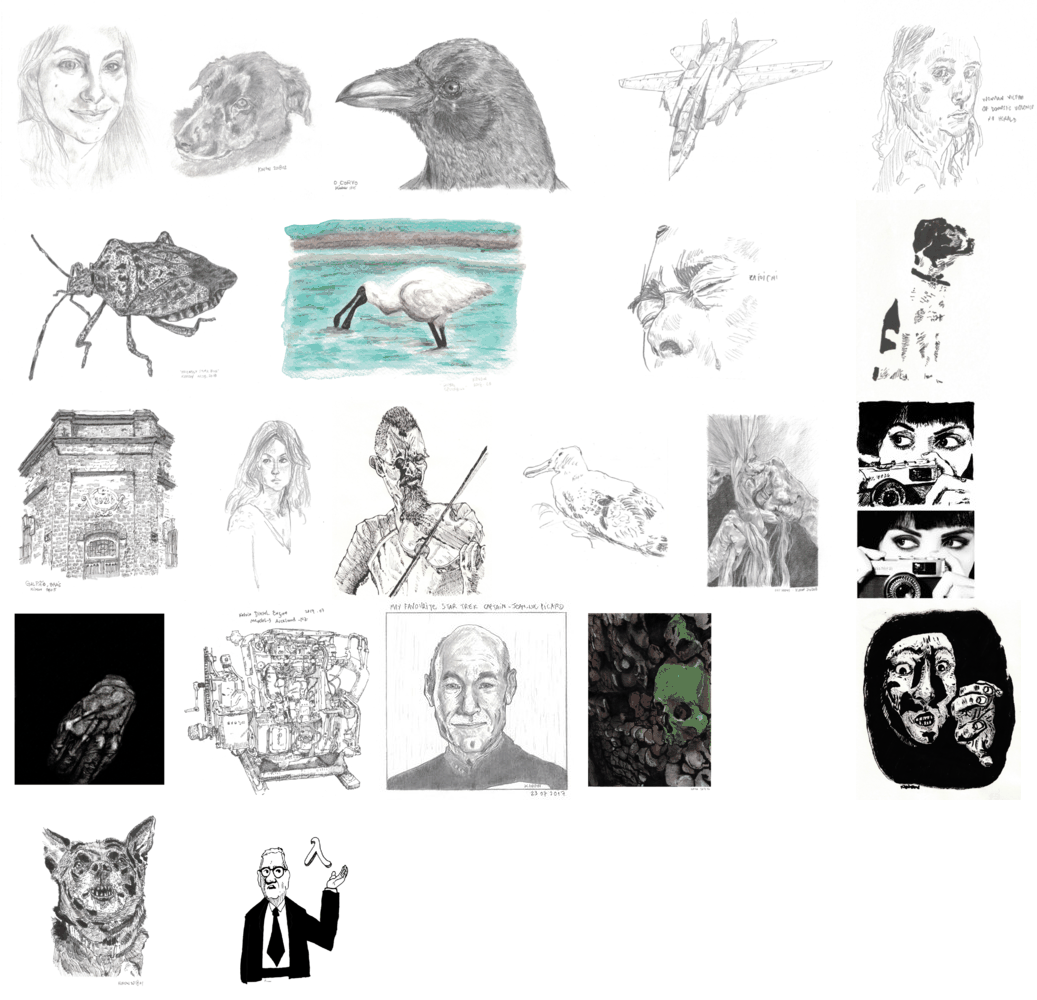
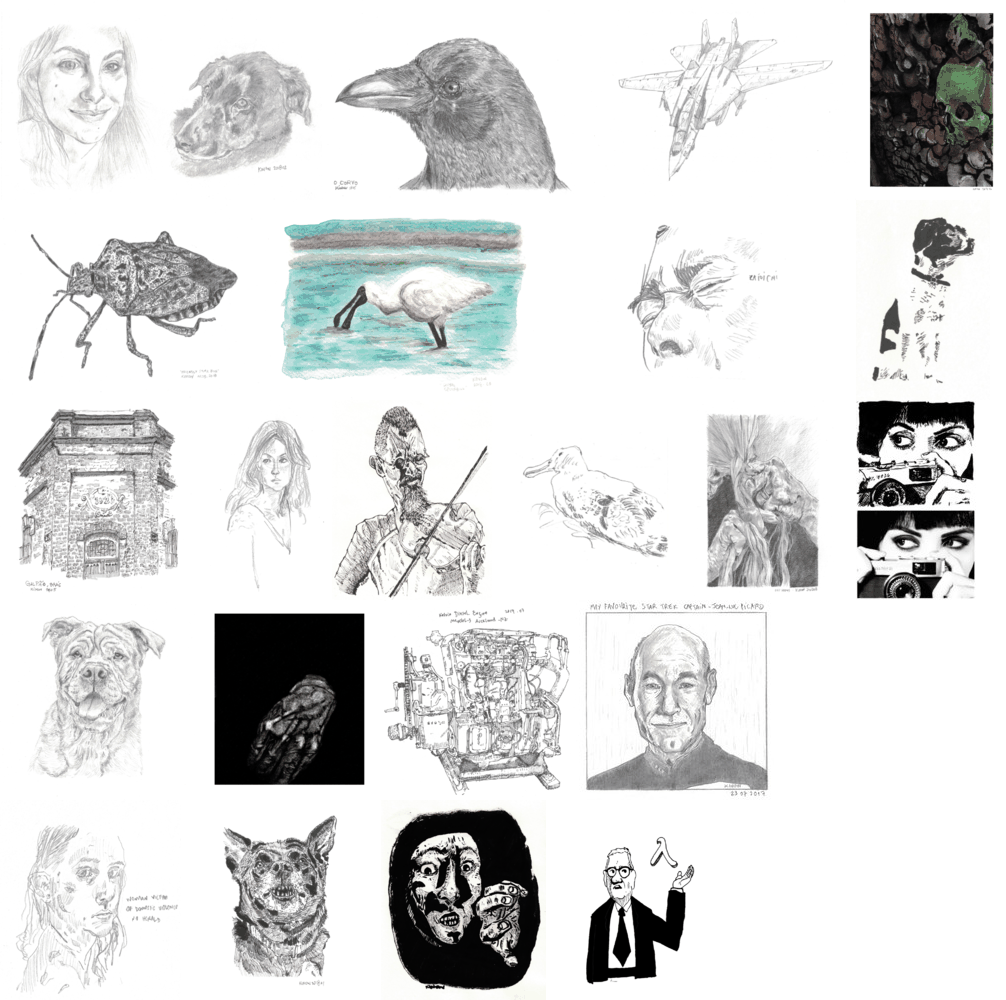
Add Rocky drawing

diff --git a/_sass/thumbs.scss b/_sass/thumbs.scss
@@ -1,4 +1,4 @@
-/* glue: 0.13 hash: f1fb888f26 */
+/* glue: 0.13 hash: 87e9ce1259 */
         .sprite-thumbs-thumb-simone,
 .sprite-thumbs-thumb-o-corvo,
 .sprite-thumbs-thumb-stink-bug-smaller,
@@ -9,6 +9,7 @@
 .sprite-thumbs-thumb-woman-looking-01,
 .sprite-thumbs-thumb-terra_celta_s_vocal_elcio_by_kinow-dau42sh,
 .sprite-thumbs-thumb-southern-royal-albatross,
+.sprite-thumbs-thumb-rocky,
 .sprite-thumbs-thumb-old-hands,
 .sprite-thumbs-thumb-obachan,
 .sprite-thumbs-thumb-kelvin-diesel-engine,
@@ -84,6 +85,12 @@
             height: 200px;
         }
         
+        .sprite-thumbs-thumb-rocky {
+            background-position: 0 -600px;
+            width: 200px;
+            height: 200px;
+        }
+        
         .sprite-thumbs-thumb-old-hands {
             background-position: -692px -400px;
             width: 142px;
@@ -91,37 +98,37 @@
         }
         
         .sprite-thumbs-thumb-obachan {
-            background-position: 0 -600px;
+            background-position: -200px -600px;
             width: 179px;
             height: 200px;
         }
         
         .sprite-thumbs-thumb-kelvin-diesel-engine {
-            background-position: -179px -600px;
+            background-position: -379px -600px;
             width: 200px;
             height: 200px;
         }
         
         .sprite-thumbs-thumb-jean-luc-picard-original-size {
-            background-position: -379px -600px;
+            background-position: -579px -600px;
             width: 195px;
             height: 200px;
         }
         
         .sprite-thumbs-thumb-green-skull-full {
-            background-position: -574px -600px;
+            background-position: -856px 0;
             width: 150px;
             height: 200px;
         }
         
         .sprite-thumbs-thumb-domestic-violence {
-            background-position: -856px 0;
+            background-position: 0 -800px;
             width: 181px;
             height: 200px;
         }
         
         .sprite-thumbs-thumb-doggo-white {
-            background-position: 0 -800px;
+            background-position: -181px -800px;
             width: 200px;
             height: 200px;
         }
@@ -139,13 +146,13 @@
         }
         
         .sprite-thumbs-thumb-cave {
-            background-position: -856px -600px;
+            background-position: -381px -800px;
             width: 165px;
             height: 200px;
         }
         
         .sprite-thumbs-thumb-alonzo_and_lambda_by_kinow-d5tqvau {
-            background-position: -200px -800px;
+            background-position: -546px -800px;
             width: 159px;
             height: 200px;
         }
@@ -161,6 +168,7 @@
     .sprite-thumbs-thumb-woman-looking-01,
     .sprite-thumbs-thumb-terra_celta_s_vocal_elcio_by_kinow-dau42sh,
     .sprite-thumbs-thumb-southern-royal-albatross,
+    .sprite-thumbs-thumb-rocky,
     .sprite-thumbs-thumb-old-hands,
     .sprite-thumbs-thumb-obachan,
     .sprite-thumbs-thumb-kelvin-diesel-engine,
@@ -173,9 +181,9 @@
     .sprite-thumbs-thumb-cave,
     .sprite-thumbs-thumb-alonzo_and_lambda_by_kinow-d5tqvau {
                 background-image: url('/assets/pages/art/thumbs.png');
-                -webkit-background-size: 1037px 1000px;
-                -moz-background-size: 1037px 1000px;
-                background-size: 1037px 1000px;
+                -webkit-background-size: 1006px 1000px;
+                -moz-background-size: 1006px 1000px;
+                background-size: 1006px 1000px;
             }
         }
         

diff --git a/_pages/art.md b/_pages/art.md
@@ -88,5 +88,8 @@ note: "Drawing for fun, but commissions are welcome if I have the time."
         <a href="/2020/03/31/obachan.html">
             <div class="ui image sprite-thumbs-thumb-obachan"></div>
         </a>
+        <a href="/2020/09/23/rocky.html">
+            <div class="ui image sprite-thumbs-thumb-rocky"></div>
+        </a>
     </div>
 </div>

diff --git a/_posts/2020-09-23-rocky.md b/_posts/2020-09-23-rocky.md
@@ -1,0 +1,14 @@
+---
+title: Rocky
+layout: post
+categories:
+- drawing
+note: |
+    "Rocky" commission drawing
+---
+
+<img src="/assets/pages/art/images/rocky.png">
+
+<a href="/assets/pages/art/archives/rocky.png">High res graphite drawing</a>
+
+<a href="/assets/pages/art/archives/rocky-ink.png">High res ink drawing</a>
